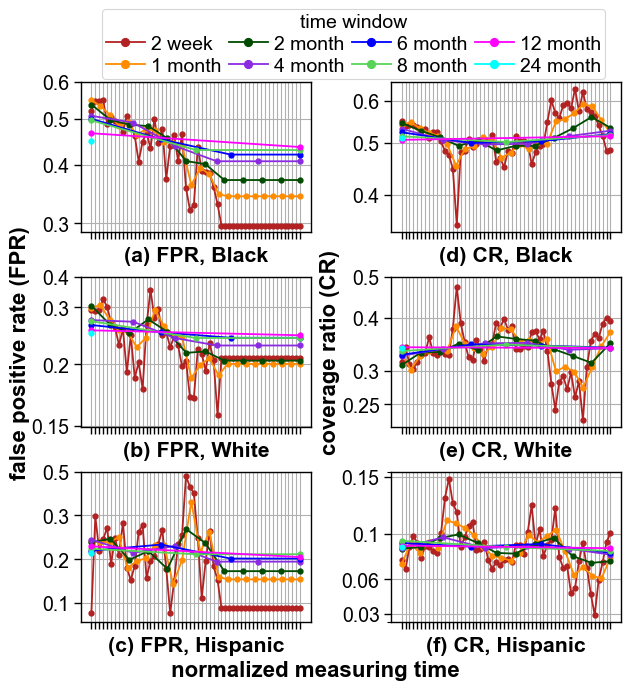
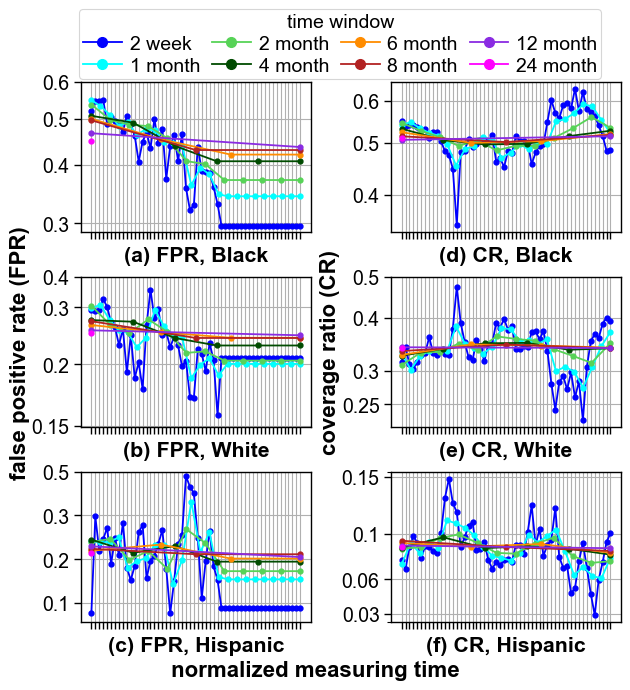
compas exp

diff --git a/experiments/compas/case_study/fig.py b/experiments/compas/case_study/fig.py
@@ -123,7 +123,7 @@ x_list = np.arange(0, len(df_CR))
 
 # print(len(x_list))
 
-fig, axs = plt.subplots(1, 2, figsize=(6, 2.5))
+fig, axs = plt.subplots(1, 2, figsize=(6, 2.55))
 plt.rcParams['font.size'] = 10
 curve_colors = sns.color_palette(palette=['navy', 'blue', 'cornflowerblue', 'lightgreen', '#730a47', '#d810ef'])
 
@@ -132,6 +132,13 @@ pair_colors = [scale_lightness(matplotlib.colors.ColorConverter.to_rgb("navy"), 
                '#287c37', '#cccc00',
                '#730a47', '#9966cc']
 
+
+axs[0].plot(x_list, col_data_FPR["hispanic_time_decay"], linewidth=2.5, markersize=3.5, label='Hispanic time decay',
+            linestyle='-', marker='o',
+            color=pair_colors[4])
+axs[0].plot(x_list, col_data_FPR["hispanic_traditional"], linewidth=2.5, markersize=3.5, label='Hispanic traditional',
+            linestyle='--', marker='s',
+            color=pair_colors[5])
 # Plot the first curve (y1_values)
 axs[0].plot(x_list, col_data_FPR["black_time_decay"], linewidth=2.5, markersize=3.5, label='Black time decay',
             linestyle='-', marker='o', color=pair_colors[0])
@@ -145,12 +152,6 @@ axs[0].plot(x_list, col_data_FPR["white_time_decay"], linewidth=2.5, markersize=
 axs[0].plot(x_list, col_data_FPR["white_traditional"], linewidth=2.5, markersize=3.5, label='White traditional',
             linestyle='--', marker='s', color=pair_colors[3])
 
-axs[0].plot(x_list, col_data_FPR["hispanic_time_decay"], linewidth=2.5, markersize=3.5, label='Hispanic time decay',
-            linestyle='-', marker='o',
-            color=pair_colors[4])
-axs[0].plot(x_list, col_data_FPR["hispanic_traditional"], linewidth=2.5, markersize=3.5, label='Hispanic traditional',
-            linestyle='--', marker='s',
-            color=pair_colors[5])
 
 
 axs[1].plot(x_list, col_data_CR["black_time_decay"], linewidth=2.5, markersize=3.5, label='Black time decay',
@@ -169,24 +170,41 @@ axs[1].plot(x_list, col_data_CR["hispanic_traditional"], linewidth=2.5, markersi
 
 
 # add a common x-axis label
-fig.text(0.5, -0.03, 'compas screening date, from 01/01/2013 \nto 12/31/2014, time window = 1 month',
+fig.text(0.5, 0.01, 'compas screening date, from 01/01/2013 \nto 12/31/2014, time window = 1 month',
             ha='center', va='center', fontsize=16, fontweight='bold')
 
-axs[0].set_ylabel('false positive rate', fontsize=17, labelpad=-1, fontweight='bold')
-axs[1].set_ylabel('coverage rate', fontsize=17, labelpad=-1, fontweight='bold')
-axs[0].set_yticks([0.0, 0.5, 1.0])
-axs[1].set_yticks([0.0, 0.2, 0.4, 0.6])
-
-axs[0].set_title('(a) FPR', y=-0.19, pad=-0.5, fontweight='bold')
-axs[1].set_title('(b) CR', y=-0.19, pad=-0.5, fontweight='bold')
+axs[0].set_ylabel('false positive rate', fontsize=17, labelpad=-1, fontweight='bold', y=0.46)
+axs[0].set_title('(a) FPR', y=-0.3, pad=0, fontweight='bold')
 axs[0].set_yscale('log')
-axs[0].set_yticks([0.1, 0.5, 1.0], [0.1, 0.5, 1.0])
-# axs[1].set_yscale('log')
-
+axs[0].set_yticks([0.1, 0.3, 0.5, 1.0], [0.1, 0.3, 0.5, 1.0])
+x_ticks = np.arange(0, len(x_list))
+x_labels = [""] * len(x_list)
+x_labels[5] = "6"
+x_labels[11] = "12"
+x_labels[15] = "16"
+axs[0].set_xticks(x_ticks, x_labels, rotation=0, fontsize=14)
 axs[0].grid(True)
+
+gridlines = axs[0].xaxis.get_gridlines()
+gridlines[5].set_color("k")
+gridlines[5].set_linewidth(2)
+gridlines[11].set_color("k")
+gridlines[11].set_linewidth(2)
+gridlines[15].set_color("k")
+gridlines[15].set_linewidth(2)
+#
+# xt=np.append(x_ticks,5)
+# xtl = xt.tolist()
+# xtl[-1] = "6"
+# axs[0].set_xticklabels(xtl)
+
+
+
+axs[1].set_ylabel('coverage rate', fontsize=17, labelpad=-1, fontweight='bold')
+axs[1].set_yticks([0.0, 0.2, 0.3, 0.4, 0.6])
+axs[1].set_title('(b) CR', y=-0.27, pad=-0.5, fontweight='bold')
 axs[1].grid(True)
-axs[0].set_xticks(np.arange(0, len(x_list)), [], rotation=0, fontsize=20)
-axs[1].set_xticks(np.arange(0, len(x_list)), [], rotation=0, fontsize=20)
+axs[1].set_xticks(x_ticks, [], rotation=0, fontsize=20)
 
 
 # create a common legend
@@ -194,16 +212,138 @@ handles, labels = axs[-1].get_legend_handles_labels()
 
 
 fig.legend(handles=handles, labels=labels, loc='lower left', bbox_to_anchor=(0.01, 0.96), fontsize=12.8,
-           ncol=3, labelspacing=0.3, handletextpad=0.3, markerscale=1.6,
+           ncol=3, labelspacing=0.3, handletextpad=0.3, markerscale=2,
            columnspacing=0.4, borderpad=0.2, frameon=True)
 fig.subplots_adjust(left=0.05, right=0.95, top=0.95, bottom=0.1, wspace=0.3, hspace=0)
 
-#
-# plt.legend(loc='upper left', bbox_to_anchor=(-1, 1.1), fontsize=14,
-#            ncol=2, labelspacing=0.3, handletextpad=0.3, markerscale=1.6,
-#            columnspacing=0.4, borderpad=0.2, frameon=True, handles=handles, labels=labels)
-#
-# plt.subplots_adjust(left=0.05, right=0.95, top=0.95, bottom=0.05, wspace=0.3, hspace=0)
+
 plt.tight_layout()
 plt.savefig("compas_compare.png", bbox_inches='tight')
+plt.show()
+
+
+####################### smoothness: standard deviation of the first derative of the curve ############################
+
+smooth_FPR = {}
+smooth_CR = {}
+
+
+
+# open a new file for FPR
+with open("roughness_compas_FPR.csv", "w", newline='') as csvfile:
+    writer = csv.writer(csvfile, delimiter=',')
+    writer.writerow(["smoothness"])
+    writer.writerow(["black_time_decay", np.std(np.diff(col_data_FPR["black_time_decay"]) / np.diff(x_list))])
+    smooth_FPR["black_time_decay"] = np.std(np.diff(col_data_FPR["black_time_decay"]) / np.diff(x_list))
+    # remove nan value in list
+    fpr = col_data_FPR["black_traditional"]
+    fpr = [x for x in fpr if str(x) != 'nan']
+    dydx = np.diff(fpr) / np.diff(np.arange(0, len(fpr)))
+    sm = np.std(dydx)
+    writer.writerow(["black_traditional", sm])
+    smooth_FPR["black_traditional"] = sm
+    writer.writerow(["white_time_decay", np.std(np.diff(col_data_FPR["white_time_decay"]) / np.diff(x_list))])
+    smooth_FPR["white_time_decay"] = np.std(np.diff(col_data_FPR["white_time_decay"]) / np.diff(x_list))
+    fpr = col_data_FPR["white_traditional"]
+    fpr = [x for x in fpr if str(x) != 'nan']
+    dydx = np.diff(fpr) / np.diff(np.arange(0, len(fpr)))
+    sm = np.std(dydx)
+    writer.writerow(["white_traditional", sm])
+    smooth_FPR["white_traditional"] = sm
+    writer.writerow(["hispanic_time_decay", np.std(np.diff(col_data_FPR["hispanic_time_decay"]) / np.diff(x_list))])
+    smooth_FPR["hispanic_time_decay"] = np.std(np.diff(col_data_FPR["hispanic_time_decay"]) / np.diff(x_list))
+    fpr = col_data_FPR["hispanic_traditional"]
+    fpr = [x for x in fpr if str(x) != 'nan']
+    dydx = np.diff(fpr) / np.diff(np.arange(0, len(fpr)))
+    sm = np.std(dydx)
+    writer.writerow(["hispanic_traditional", sm])
+    smooth_FPR["hispanic_traditional"] = sm
+
+smooth_CR["black_time_decay"] = np.std(np.diff(col_data_CR["black_time_decay"]) / np.diff(x_list))
+smooth_CR["black_traditional"] = np.std(np.diff(col_data_CR["black_traditional"]) / np.diff(x_list))
+smooth_CR["white_time_decay"] = np.std(np.diff(col_data_CR["white_time_decay"]) / np.diff(x_list))
+smooth_CR["white_traditional"] = np.std(np.diff(col_data_CR["white_traditional"]) / np.diff(x_list))
+smooth_CR["hispanic_time_decay"] = np.std(np.diff(col_data_CR["hispanic_time_decay"]) / np.diff(x_list))
+smooth_CR["hispanic_traditional"] = np.std(np.diff(col_data_CR["hispanic_traditional"]) / np.diff(x_list))
+
+# another file for CR
+with open("roughness_compas_CR.csv", "w", newline='') as csvfile:
+    writer = csv.writer(csvfile, delimiter=',')
+    writer.writerow(["smoothness"])
+    writer.writerow(["black_time_decay", np.std(np.diff(col_data_CR["black_time_decay"]) / np.diff(x_list))])
+    writer.writerow(["black_traditional", np.std(np.diff(col_data_CR["black_traditional"]) / np.diff(x_list))])
+    writer.writerow(["white_time_decay", np.std(np.diff(col_data_CR["white_time_decay"]) / np.diff(x_list))])
+    writer.writerow(["white_traditional", np.std(np.diff(col_data_CR["white_traditional"]) / np.diff(x_list))])
+    writer.writerow(["hispanic_time_decay", np.std(np.diff(col_data_CR["hispanic_time_decay"]) / np.diff(x_list))])
+    writer.writerow(["hispanic_traditional", np.std(np.diff(col_data_CR["hispanic_traditional"]) / np.diff(x_list))])
+
+
+
+from sklearn.preprocessing import MinMaxScaler
+
+
+roughness_scores_FPR = [1 / sd for sd in list(smooth_FPR.values())]
+roughness_scores_CR = [1 / sd for sd in list(smooth_CR.values())]
+
+# Assuming roughness_scores is a 2D array where each row is a feature to be normalized
+roughness_scores = np.array(roughness_scores_FPR).reshape(-1, 1)  # Reshape for scaler if it's a single feature
+
+scaler = MinMaxScaler(feature_range=(0, 1))
+smoothness_scores_normalized_FPR = scaler.fit_transform(roughness_scores).flatten()
+
+
+smoothness_scores = [1/sd for sd in list(smooth_FPR.values())]  # Example data
+# Normalize based on the maximum value observed
+max_smoothness = max(smoothness_scores)
+smoothness_scores_normalized_FPR = [score / max_smoothness for score in smoothness_scores]
+print("Normalized Smoothness Scores with Scikit-learn:", smoothness_scores_normalized_FPR)
+
+
+
+roughness_scores = np.array(roughness_scores_CR).reshape(-1, 1)  # Reshape for scaler if it's a single feature
+smoothness_scores_normalized_CR = scaler.fit_transform(roughness_scores).flatten()
+
+
+smoothness_scores = [1/sd for sd in list(smooth_CR.values())]  # Example data
+# Normalize based on the maximum value observed
+max_smoothness = max(smoothness_scores)
+smoothness_scores_normalized_CR = [score / max_smoothness for score in smoothness_scores]
+print("Normalized Smoothness Scores with Scikit-learn:", smoothness_scores_normalized_CR)
+
+
+
+# draw two bar charts using FPR and CR smoothness
+fig, axs = plt.subplots(1, 2, figsize=(5.8, 2))
+
+legend_labels = ["Black time decay", "Black traditional", "White time decay", "White traditional", "Hispanic time decay", "Hispanic traditional"]
+
+axs[0].bar(smooth_FPR.keys(), smoothness_scores_normalized_FPR, color=pair_colors, label=legend_labels)
+axs[0].set_ylabel('smoothness', fontsize=17, labelpad=-1, fontweight='bold')
+axs[0].set_title('(a) FPR', y=-0.13, pad=0, fontweight='bold')
+axs[0].set_yticks([0.0, 0.2, 0.4, 0.6, 0.8, 1.0], [0.0, 0.2, 0.4, 0.6, 0.8, 1.0], fontsize=16)
+axs[0].grid(True)
+# remove x ticks
+axs[0].set_xticks([], [], rotation=0, fontsize=20)
+axs[0].bar_label(axs[0].containers[0], labels=["{:0.2f}".format(score) for score in smoothness_scores_normalized_FPR],
+                 fontsize=14, padding=-1.2)
+
+
+axs[1].bar(smooth_CR.keys(), smoothness_scores_normalized_CR, color=pair_colors, label=legend_labels)
+axs[1].set_ylabel('smoothness', fontsize=17, labelpad=-1, fontweight='bold')
+axs[1].set_title('(b) CR', y=-0.13, pad=0, fontweight='bold')
+axs[1].set_yticks([0.0, 0.2, 0.4, 0.6, 0.8, 1.0], [0.0, 0.2, 0.4, 0.6, 0.8, 1.0], fontsize=16)
+axs[1].grid(True)
+axs[1].set_xticks([], [], rotation=0, fontsize=20)
+axs[1].bar_label(axs[1].containers[0], labels=["{:0.2f}".format(score) for score in smoothness_scores_normalized_CR],
+                 fontsize=14, padding=-1.2)
+
+
+handles, labels = axs[0].get_legend_handles_labels()
+fig.legend(handles=handles, labels=labels, loc='lower left', bbox_to_anchor=(-0.07, 0.95), fontsize=13,
+              ncol=3, labelspacing=0.3, handletextpad=0.3, markerscale=2, handlelength=1.9,
+              columnspacing=0.5, borderpad=0.2, frameon=True)
+# fig.legend()
+plt.tight_layout()
+fig.subplots_adjust(left=0.05, right=0.95, top=0.95, bottom=0.1, wspace=0.3, hspace=0)
+fig.savefig("compas_smoothness_normalized.png", bbox_inches='tight')
 plt.show()

diff --git a/experiments/compas/change_window_size/fig.py b/experiments/compas/change_window_size/fig.py
@@ -119,6 +119,8 @@ curve_colors = sns.color_palette(palette=['black', '#09339e', '#5788ee', '#00b9b
                                           '#41ab5d', '#006837'])
 curve_colors = sns.color_palette(palette=['firebrick', 'darkorange', '#004b00', 'blueviolet', '#0000ff', '#57d357',
                                           'magenta', 'cyan'])
+curve_colors = sns.color_palette(palette=[ '#0000ff', 'cyan', '#57d357', '#004b00', 'darkorange', 'firebrick',
+                                           'blueviolet', 'magenta'])
 # curve_colors = curve_colors[::-1]
 # curve_colors = sns.color_palette(palette=["#1984c5", "#22a7f0", "#63bff0", "#a7d5ed", "#e2e2e2", "#e1a692", "#de6e56",
 #                                           "#e14b31", "#c23728", "#8c2d1c"])
@@ -201,9 +203,9 @@ fig.text(0.44, -0.03, 'normalized measuring time',
 # create a common legend
 handles, labels = axs[-1, -1].get_legend_handles_labels()
 
-plt.legend(title='time window', title_fontsize=14, loc='upper left', bbox_to_anchor=(-1.3, 4.15), fontsize=14,
-           ncol=4, labelspacing=0.2, handletextpad=0.3, markerscale=1.6,
-           columnspacing=0.4, borderpad=0.2, frameon=True, handles=handles, labels=labels)
+plt.legend(title='time window', title_fontsize=14, loc='upper left', bbox_to_anchor=(-1.4, 4.15), fontsize=14,
+           ncol=4, labelspacing=0.2, handletextpad=0.4, markerscale=2,
+           columnspacing=0.6, borderpad=0.2, frameon=True, handles=handles, labels=labels)
 
 plt.subplots_adjust(left=0.05, right=0.95, top=0.95, bottom=0.05, wspace=0.35, hspace=0.3)
 plt.tight_layout()

diff --git a/experiments/compas/change_time_decay_factor/fig.py b/experiments/compas/change_time_decay_factor/fig.py
@@ -111,6 +111,7 @@ col_data_CR = {}
 for col_name in df_CR.columns:
     col_data_CR[col_name] = df_CR[col_name].tolist()
 
+
 # draw the plot
 
 x_list = np.arange(0, len(ast.literal_eval(col_data_FPR['black_time_decay'][0])))
